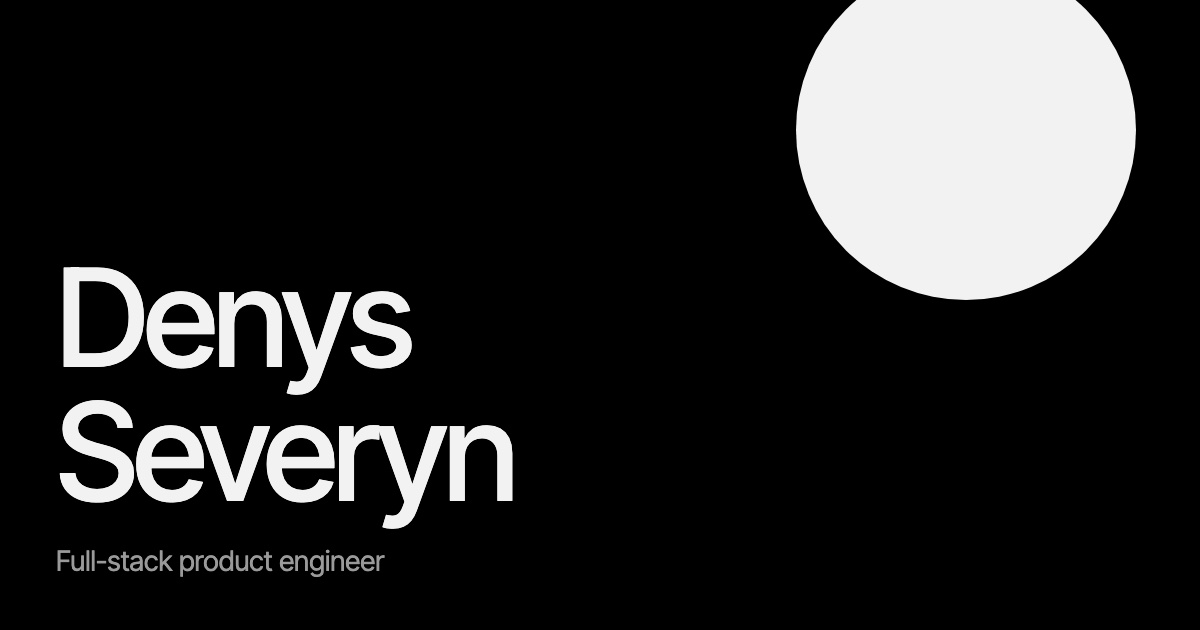
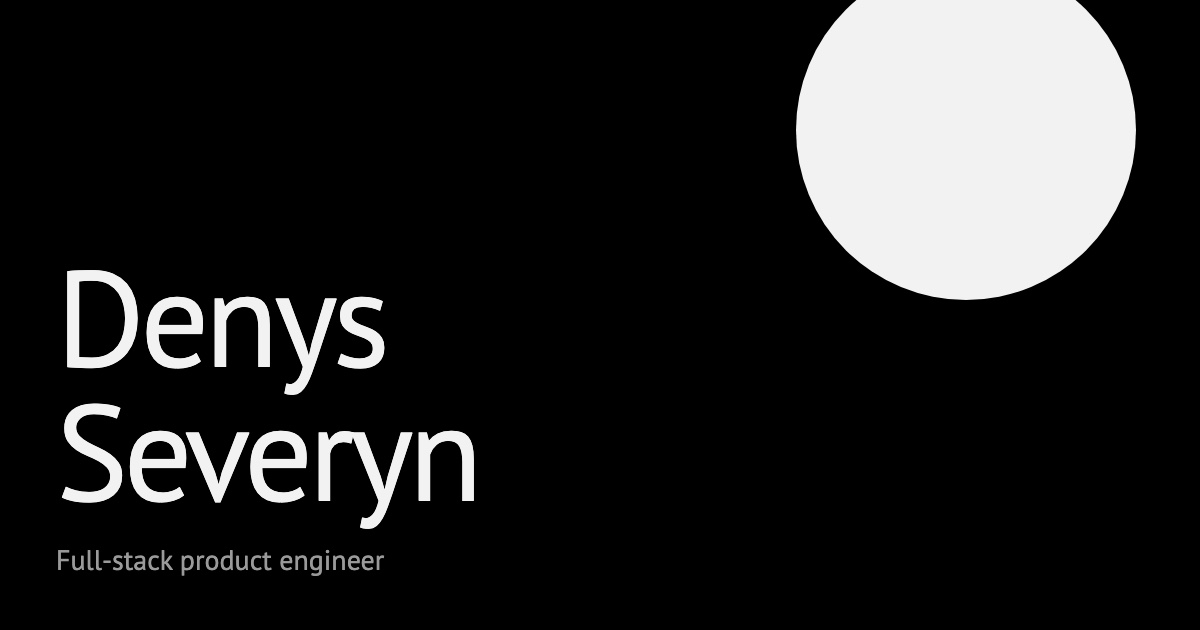
Switch to PT Sans and pace the dust's frames
Set the page and social card in PT Sans, and refit the email to the new
width.

Draw the dust at 60 fps while anything moves and 30 at rest, and skip its
noise where the outline can't reach. Measure GPU load only on drawn frames
so the slower pace doesn't lower the resolution.

Changed region(s): [[0.0308, 0.6333, 0.4317, 0.8444], [0.0308, 0.4222, 0.3392, 0.6333], [0.0308, 0.8746, 0.3083, 0.9048]]

diff --git a/src/mist.ts b/src/mist.ts
@@ -86,25 +86,28 @@ void main() {
   vec2 near = (frag - nearCenter) / radius;
   vec2 far = (frag - farCenter) / radius;
   vec2 middle = (near + far) * 0.5;
-  // The outline: a band that turns and changes length along the film, torn by noise, so it is never the same blob twice.
-  vec2 shape = rotation(stir * 0.45) * middle * vec2(1.0, 1.6 + 0.5 * sin(stir * 0.9));
-  shape += 0.5 * (vec2(fbm(middle * 1.1 + time * 0.03), fbm(middle * 1.1 + 5.0 - time * 0.025)) - 0.5);
-  float edge = 1.0 - smoothstep(0.2, 1.05, length(shape) + 0.9 * (fbm(middle * 1.6 + time * 0.03) - 0.5));
-  if (edge > 0.0 && opacity > 0.0) {
-    // Twisted more towards the rim and pushed by slow noise, so no two grains keep their distance for long.
-    float twist = turn + 0.4 * sin(time * 0.07) * length(near);
-    near = rotation(twist) * near;
-    far = rotation(twist * 0.6 + time * 0.012) * far;
-    near += 0.05 * (vec2(fbm(near * 2.0 + time * 0.05), fbm(near * 2.0 + 4.0 - time * 0.05)) - 0.5);
-    float fold = folds((near + far) * 0.7 + vec2(stir * 2.3, -stir * 1.7), time);
-    float density = smoothstep(0.38, 0.62, fold);
-    // Haze under the grains: the fine dust too small to see one by one, which gives the cloud its volume.
-    float haze = smoothstep(0.32, 0.8, fold);
-    // Deep grains lag and stay fine, near ones lead, and the nearest are large, dim and out of focus.
-    float cloud = grains(rotation(0.5) * far * 72.0, density, time, 0.16, 0.24, 0.3)
-      + 1.3 * grains(rotation(-0.7) * near * 34.0 + 11.0, density * 0.5, time + 9.0, 0.1, 0.28, 0.2)
-      + 0.35 * grains(rotation(1.9) * near * 9.0 + 5.0, density * 0.1, time + 4.0, 0.12, 0.3, 0.0);
-    alpha += (1.15 * cloud * (0.35 + 0.65 * density) + 0.13 * haze) * edge * opacity * (1.0 + 0.9 * light);
+  // Noise is the expensive part. Past this reach the outline is empty whatever the noise does, so most of the window skips it.
+  if (opacity > 0.0 && length(middle) < 1.9) {
+    // The outline: a band that turns and changes length along the film, torn by noise, so it is never the same blob twice.
+    vec2 shape = rotation(stir * 0.45) * middle * vec2(1.0, 1.6 + 0.5 * sin(stir * 0.9));
+    shape += 0.5 * (vec2(fbm(middle * 1.1 + time * 0.03), fbm(middle * 1.1 + 5.0 - time * 0.025)) - 0.5);
+    float edge = 1.0 - smoothstep(0.2, 1.05, length(shape) + 0.9 * (fbm(middle * 1.6 + time * 0.03) - 0.5));
+    if (edge > 0.004) {
+      // Twisted more towards the rim and pushed by slow noise, so no two grains keep their distance for long.
+      float twist = turn + 0.4 * sin(time * 0.07) * length(near);
+      near = rotation(twist) * near;
+      far = rotation(twist * 0.6 + time * 0.012) * far;
+      near += 0.05 * (vec2(fbm(near * 2.0 + time * 0.05), fbm(near * 2.0 + 4.0 - time * 0.05)) - 0.5);
+      float fold = folds((near + far) * 0.7 + vec2(stir * 2.3, -stir * 1.7), time);
+      float density = smoothstep(0.38, 0.62, fold);
+      // Haze under the grains: the fine dust too small to see one by one, which gives the cloud its volume.
+      float haze = smoothstep(0.32, 0.8, fold);
+      // Deep grains lag and stay fine, near ones lead, and the nearest are large, dim and out of focus.
+      float cloud = grains(rotation(0.5) * far * 72.0, density, time, 0.16, 0.24, 0.3)
+        + 1.3 * grains(rotation(-0.7) * near * 34.0 + 11.0, density * 0.5, time + 9.0, 0.1, 0.28, 0.2)
+        + 0.35 * grains(rotation(1.9) * near * 9.0 + 5.0, density * 0.1, time + 4.0, 0.12, 0.3, 0.0);
+      alpha += (1.15 * cloud * (0.35 + 0.65 * density) + 0.13 * haze) * edge * opacity * (1.0 + 0.9 * light);
+    }
   }
 
   // A trace of noise, so the haze doesn't fall into bands on black.
@@ -174,7 +177,11 @@ export function startMist(canvas: HTMLCanvasElement) {
   let frames = 0;
   let spent = 0;
   const start = performance.now();
-  let last = start;
+  let lastTick = start;
+  let lastDraw = start;
+  let drewLast = false;
+  // The dust drifts too slowly to need every frame: 60 fps while anything is moving, 30 at rest.
+  let settling = true;
   let raf = 0;
   // Scrolling carries the field along a heading that swings across the page, up at first, then out to either side and
   // back. Scrolling back retraces it, and at rest it keeps drifting the same way.
@@ -184,17 +191,23 @@ export function startMist(canvas: HTMLCanvasElement) {
 
   const draw = (now: number) => {
     raf = requestAnimationFrame(draw);
-    const delta = now - last;
-    last = now;
-    if (delta < 200) {
-      spent += delta;
+    // The gap after a drawn frame is what shows a GPU falling behind. Skipped frames say nothing about it.
+    const gap = now - lastTick;
+    lastTick = now;
+    if (drewLast && gap < 200) {
+      spent += gap;
       if (++frames === 40) {
         if (spent / frames > 28 && quality > 0.4) quality *= 0.8;
         frames = 0;
         spent = 0;
       }
     }
-    const seconds = Math.min(delta, 100) / 1000;
+    drewLast = false;
+    const moving = settling || scrollY !== lastScroll;
+    if (now - lastDraw < (moving ? 15 : 32)) return;
+    const seconds = Math.min(now - lastDraw, 100) / 1000;
+    lastDraw = now;
+    drewLast = true;
 
     const scale = Math.min(devicePixelRatio, 2) * quality;
     const [width, height] = [Math.round(canvas.clientWidth * scale), Math.round(canvas.clientHeight * scale)];
@@ -226,6 +239,11 @@ export function startMist(canvas: HTMLCanvasElement) {
     pointer.x = follow(pointer.x, pointer.targetX, 9, seconds);
     pointer.y = follow(pointer.y, pointer.targetY, 9, seconds);
     pointer.strength = follow(pointer.strength, pointer.target, 3, seconds);
+    settling =
+      Math.abs(cloud.farX - left) + Math.abs(cloud.farY - top) > 0.5 ||
+      Math.abs(cloud.radius - targetRadius) > 0.5 ||
+      Math.abs(pointer.strength - pointer.target) > 0.01 ||
+      Math.abs(pointer.x - pointer.targetX) + Math.abs(pointer.y - pointer.targetY) > 0.5;
 
     const shortest = Math.min(canvas.clientWidth, canvas.clientHeight);
     gl.uniform2f(uniform("nearCenter"), cloud.nearX * scale, height - cloud.nearY * scale);

diff --git a/scripts/og.html b/scripts/og.html
@@ -1,9 +1,9 @@
 <!doctype html>
 <!-- Social card. Render at 1200x630 with headless Chrome, convert to public/og.jpg (see README). -->
 <html lang="en"><head><meta charset="utf-8"><style>
-@font-face { font-family: "T"; src: url("../node_modules/@fontsource-variable/inter-tight/files/inter-tight-latin-wght-normal.woff2") format("woff2"); font-weight: 100 900; }
+@font-face { font-family: "T"; src: url("../node_modules/@fontsource/pt-sans/files/pt-sans-latin-400-normal.woff2") format("woff2"); font-weight: 400; }
 html, body { margin: 0; width: 1200px; height: 630px; overflow: hidden; background: #000; color: #f2f2f2; font-family: "T", sans-serif; }
-.big { position: absolute; left: 56px; bottom: 112px; font-size: 136px; line-height: .98; font-weight: 500; letter-spacing: -.035em; }
+.big { position: absolute; left: 56px; bottom: 112px; font-size: 136px; line-height: .98; font-weight: 400; letter-spacing: -.035em; }
 .sub { position: absolute; left: 56px; bottom: 52px; font-size: 28px; color: #9a9a9a; }
 .dot { position: absolute; right: 64px; top: -40px; width: 340px; height: 340px; border-radius: 50%; background: #f2f2f2; }
 </style></head><body><div class="dot"></div><div class="big">Denys<br>Severyn</div><div class="sub">Full-stack product engineer</div></body></html>

diff --git a/src/styles.css b/src/styles.css
@@ -1,4 +1,4 @@
-@import "@fontsource-variable/inter-tight/wght.css";
+@import "@fontsource/pt-sans/400.css";
 @import "./morph.css";
 
 :root {
@@ -28,7 +28,7 @@ body {
   background: var(--black);
   color: var(--white);
   isolation: isolate;
-  font: 400 1.125rem/1.5 "Inter Tight Variable", system-ui, sans-serif;
+  font: 400 1.125rem/1.5 "PT Sans", system-ui, sans-serif;
   -webkit-font-smoothing: antialiased;
 }
 
@@ -235,7 +235,7 @@ svg {
 .mail {
   display: block;
   margin-top: 8px;
-  font-size: min(calc((100vw - 2 * var(--gutter)) * 0.122), 13rem);
+  font-size: min(calc((100vw - 2 * var(--gutter)) * 0.127), 13rem);
   font-weight: 500;
   line-height: 1.06;
   letter-spacing: -0.04em;
